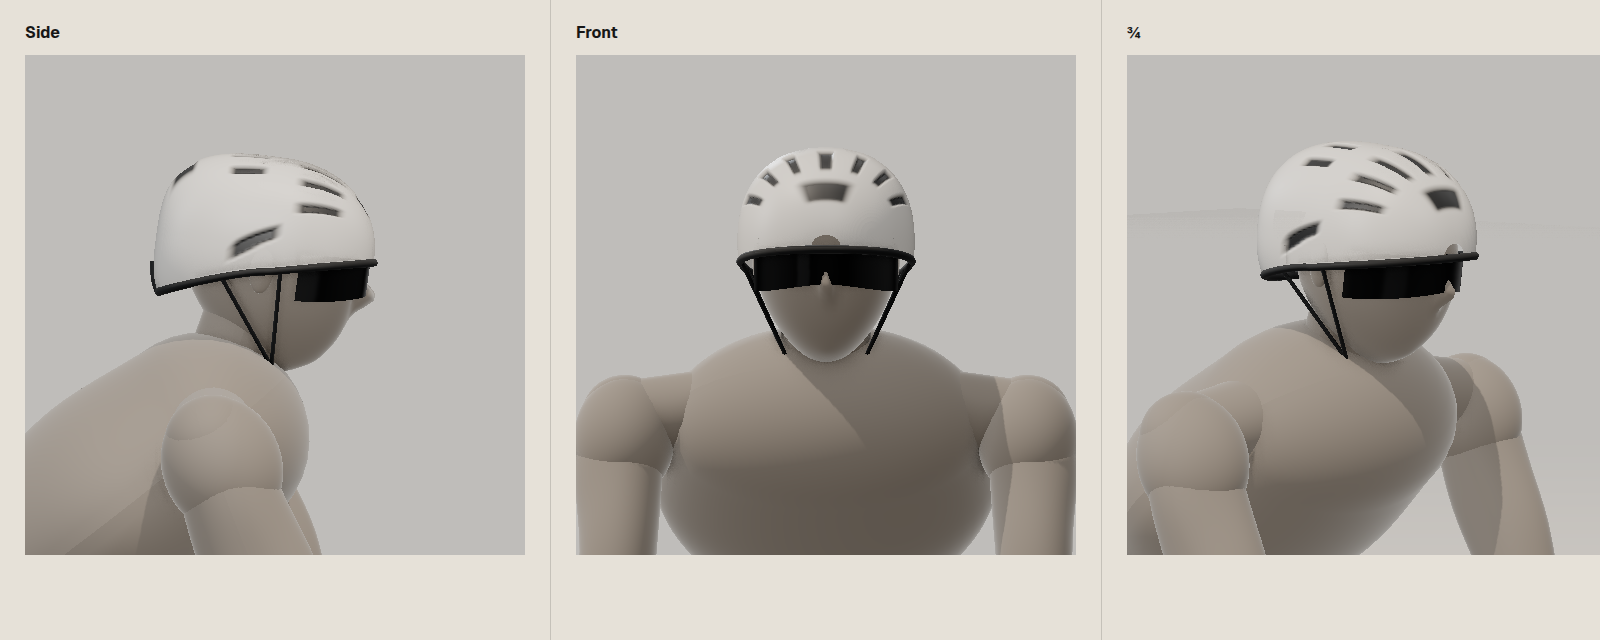
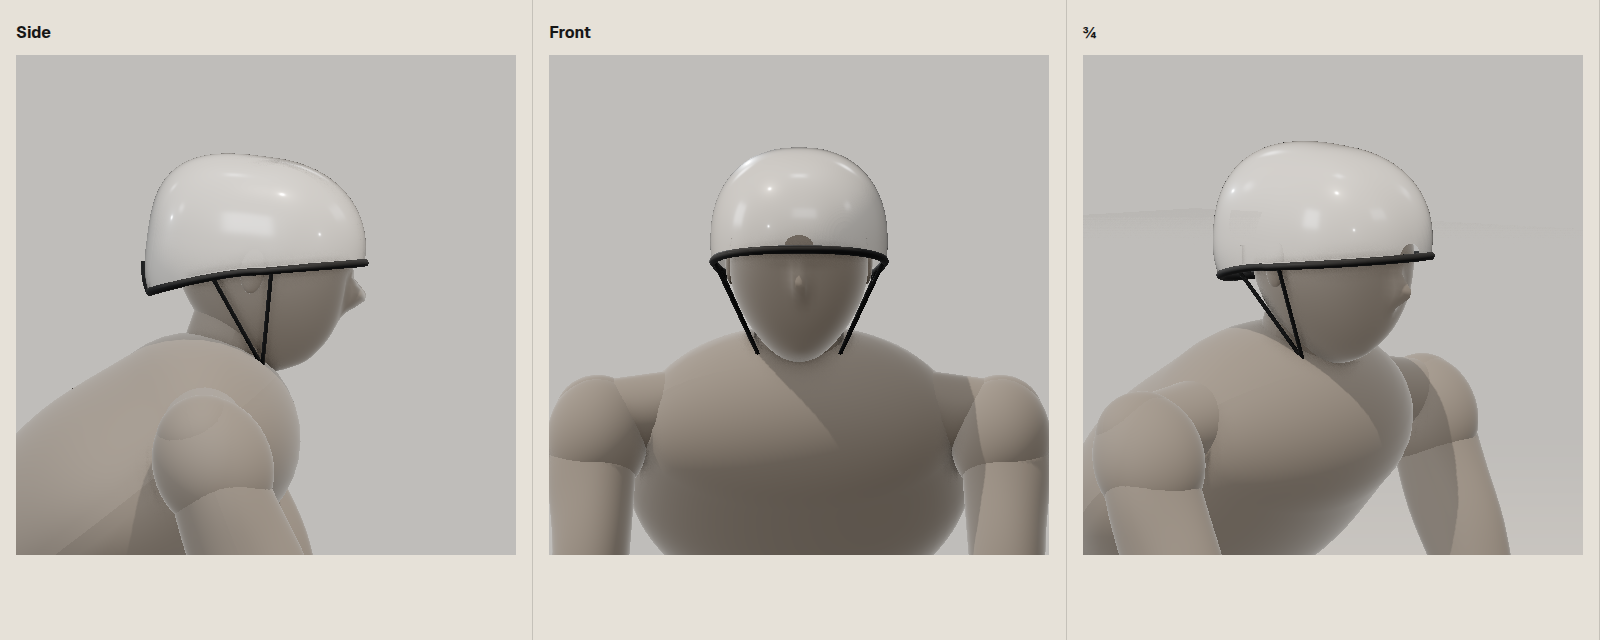
Rider helmet: clean abstract shell (no vents)
Replaces the painted-vent helmet with a smooth glossy shell in the
Evade 4 style silhouette, with rim band and straps, and drops the
glasses so the head matches the clay-mannequin language. Records a
professionally modelled helmet/body asset as the future upgrade path.

Claude-Session: https://claude.ai/code/session_01NLmMAFFsk38kWFHaEgHSMq

diff --git a/docs/plans/mockups/src/rider3.js b/docs/plans/mockups/src/rider3.js
@@ -51,16 +51,7 @@ export const HELMET = (() => {
     return V(x, cy + B * kk * Math.sign(ca) * Math.abs(ca) ** (2 / q) * k, Cz * kk * Math.sign(sa) * Math.abs(sa) ** (2 / q) * k);
   };
   const band = (d, w) => ss(w, w * .55, Math.abs(d));
-  const ventMask = (s, v) => {                 // s: 0 tail → 1 brow
-    let m = 0;
-    if (s > .86 && s < .97) m = Math.max(m, band(v, .3) * band(s - .915, .045));                 // mouth port
-    for (const c of [0, .2, -.2, .4, -.4, .6, -.6]) {                                               // 7 front vents, curving outward to the rear
-      const cv = c * (1 + .35 * (.92 - s)); m = Math.max(m, band(v - cv, .045) * band(s - .72, .13)); }
-    for (const c of [.14, -.14, .36, -.36]) m = Math.max(m, band(v - c, .05) * band(s - .38, .1)); // rear top channels
-    for (const sg of [1, -1]) { const cv = sg * (.9 - .35 * (s - .3)); m = Math.max(m, band(v - cv, .045) * band(s - .45, .13)); } // diagonal flank vent
-    if (s < .16) m = Math.max(m, band(v - .0, .34) * band(s - .09, .06));                                  // rear exhaust
-    return m;
-  };
+  const ventMask = () => 0; // option 2: clean shell, no vents
   return { A, cx, cy, RA, sect, ventMask, x0: cx - A * RA + 1, x1: cx + A - 1 };
 })();
 export function buildRider(G, MAT) {
@@ -147,19 +138,14 @@ export function buildRider(G, MAT) {
         pos.push(p.x, p.y, p.z); const c = W.clone().lerp(Dk, m); col.push(c.r, c.g, c.b); } }
     for (let i = 0; i < NS; i++) for (let j = 0; j < NV; j++) { const a0 = i * (NV + 1) + j, b0 = a0 + NV + 1; idx.push(a0, b0, a0 + 1, b0, b0 + 1, a0 + 1); }
     const gg = new THREE.BufferGeometry(); gg.setAttribute('position', new THREE.Float32BufferAttribute(pos, 3)); gg.setAttribute('color', new THREE.Float32BufferAttribute(col, 3)); gg.setIndex(idx); gg.computeVertexNormals();
-    H.add(new THREE.Mesh(gg, MAT.helmetV));
+    H.add(new THREE.Mesh(gg, MAT.helmet));
     const edge = []; for (let i = 0; i <= 80; i++) edge.push(sect(lerp(x0, x1, i / 80), 1, .98)); for (let i = 80; i >= 0; i--) edge.push(sect(lerp(x0, x1, i / 80), -1, .98));
     H.add(new THREE.Mesh(new THREE.TubeGeometry(new THREE.CatmullRomCurve3(edge, true), 260, 4.5, 8, true), MAT.vent));
     // retention straps from the rim, in front of and behind the ear, to a buckle under the jaw
     for (const sg of [1, -1]) { const buck = V(10, -106, sg * 44);
       g.add; H.add(tube(sect(cx + A * .12, sg, .97), buck, 2.2, 2.2, MAT.vent), tube(sect(cx - A * .42, sg, .97), buck, 2.2, 2.2, MAT.vent)); }
   }
-  // fitted wrap glasses: band hugging the face at eye level
-  { const pos = [], idx = [], NA = 40, NH = 6;
-    for (let i = 0; i <= NH; i++) { const y = lerp(-22, 24, i / NH); for (let j = 0; j <= NA; j++) { const a = lerp(-1.25, 1.25, j / NA);
-      const rx = 106 - 22 * (1 - Math.cos(a)), rz = 82; pos.push(Math.cos(a) * rx - 4, y - 6 * Math.abs(Math.sin(a)) + (y < 0 ? 5 * Math.cos(a * 2.4) : 0), Math.sin(a) * rz); } }
-    for (let i = 0; i < NH; i++) for (let j = 0; j < NA; j++) { const a0 = i * (NA + 1) + j, b0 = a0 + NA + 1; idx.push(a0, b0, a0 + 1, b0, b0 + 1, a0 + 1); }
-    const gg = new THREE.BufferGeometry(); gg.setAttribute('position', new THREE.Float32BufferAttribute(pos, 3)); gg.setIndex(idx); gg.computeVertexNormals(); H.add(new THREE.Mesh(gg, MAT.lens)); }
+
   g.traverse(o => { if (o.isMesh) { o.castShadow = true; o.receiveShadow = true; } });
   return g;
 }

diff --git a/docs/plans/mockups/src/scene3.js b/docs/plans/mockups/src/scene3.js
@@ -41,7 +41,7 @@ const MAT = {
   hair: phys(0x3B3430, { roughness: .9, sheen: .6, sheenColor: 0x8a7a6a }),
   body: new THREE.MeshPhysicalMaterial({ vertexColors: true, roughness: .74, sheen: .35, sheenColor: 0xbbbbbb }),
   cols: { skin: T.skin, jersey: T.jersey, bib: T.bib, sock: T.sock },
-  helmet: phys(T.helmet, { roughness: .28, clearcoat: 1, clearcoatRoughness: .12, side: THREE.DoubleSide }), vent: phys(0x141516, { roughness: .6, side: THREE.DoubleSide }),
+  helmet: phys(T.helmet, { roughness: .35, clearcoat: 1, clearcoatRoughness: .08, side: THREE.DoubleSide }), vent: phys(0x141516, { roughness: .6, side: THREE.DoubleSide }),
 };
 const G = build(0, SEX), G0 = build(-6, SEX), { P, J, F, R } = G;
 const scene = new THREE.Scene(); scene.background = new THREE.Color(T.bg);

diff --git a/docs/plans/mockups/src/draw2d.js b/docs/plans/mockups/src/draw2d.js
@@ -124,7 +124,5 @@ export function clayHead(G) {
   for (let i = 0; i < NS; i++) for (let j = 0; j < NV; j++) { const s0 = i / NS, v = .3 + .7 * j / NV, m = ventMask(s0 + .5 / NS, v + .35 / NV); if (m < .5) continue;
     const q = (ss, vv) => { const p = sect(x0 + (x1 - x0) * ss, vv); return R(p.x, p.y); };
     vd += `<polygon class="ventf" points="${pts([q(s0, v), q(s0 + 1 / NS, v), q(s0 + 1 / NS, v + .7 / NV), q(s0, v + .7 / NV)])}"/>`; }
-  s += vd;
-  s += `<polygon class="lens" points="${pts([R(48, 18), R(100, 18), R(102, -12), R(90, -16), R(60, -14), R(44, -2)])}"/>`;
   return s;
 }

diff --git a/docs/plans/site-redesign.md b/docs/plans/site-redesign.md
@@ -295,19 +295,15 @@ Restyle only. Positions come from the existing `bike` / `mannequin` sketches in 
   - **Head:** one deformed ellipsoid (`headDeform`) rather than separate nose and chin blobs: a skull of 96×118×76, a
     flattened face plane, a squarer jaw that narrows gently below the equator, and a subtle nose ridge and chin built
     into the surface. Small ears.
-  - **Helmet, modelled on the Specialized S-Works Evade 4** (`HELMET`): compact and rounded, sitting close to the head.
-    - Shell: the cranium offset by +16 mm, superellipse sections (q 2.3), and a short, squared-off tail (rear stretch 1.1).
-    - Rim line: high at the brow, low at the back.
-    - Vents: painted as dark, slightly recessed regions from a mask in shell (s, v) space:
-      - a mouth-port brow intake;
-      - 7 front vents that curve outward towards the rear;
-      - 4 rear top channels;
-      - a diagonal flank vent on each side;
-      - a wide rear exhaust.
-    - A liner band along the rim, and straps in front of and behind the ear to a buckle under the jaw.
-  - **Glasses:** a wrap shield lens.
-  - **2D:** the head profile is the z=0 slice of `headDeform`. The helmet is the shell's crown line and rim, with the
-    near-side vents drawn by sampling the same `ventMask`. So 2D and 3D share one model.
+  - **Helmet: a clean abstract shell (decided)** (`HELMET`), matching the clay-mannequin language: a smooth, glossy
+    `--kit-light` shell with **no vents and no glasses**. The silhouette follows an aero-road helmet like the Evade 4:
+    compact, rounded and close-fitting (the cranium offset by +16 mm, superellipse sections q 2.3), with a short squared tail.
+    The rim is high at the brow and low at the back. A dark liner band runs along the rim, with straps in front of and
+    behind the ear to a buckle under the jaw. Painted-on vents were tried and rejected: they read as amateur.
+  - **Future upgrade:** a professionally modelled (CC0 or licensed) generic aero-road helmet and athletic body as GLB assets,
+    fitted to the IK joints. This is the route to a fully detailed, photoreal look. It must not be a replica of a branded
+    product.
+  - **2D:** the head profile is the z=0 slice of `headDeform`. The helmet is the shell's crown line and rim, so 2D and 3D share one model.
   - **Reference:** `mockups/09-head-helmet.png`.
 - **Build:** all limb profiles and muscle amplitudes are ×1.1, the torso ×1.08, glutes (64, 58, 58); a little fuller than a
   climber. **Calves:** gastrocnemius medial amp 36 (t 0.30) and lateral amp 28 (t 0.24), both spread 4 and angled 0.75
